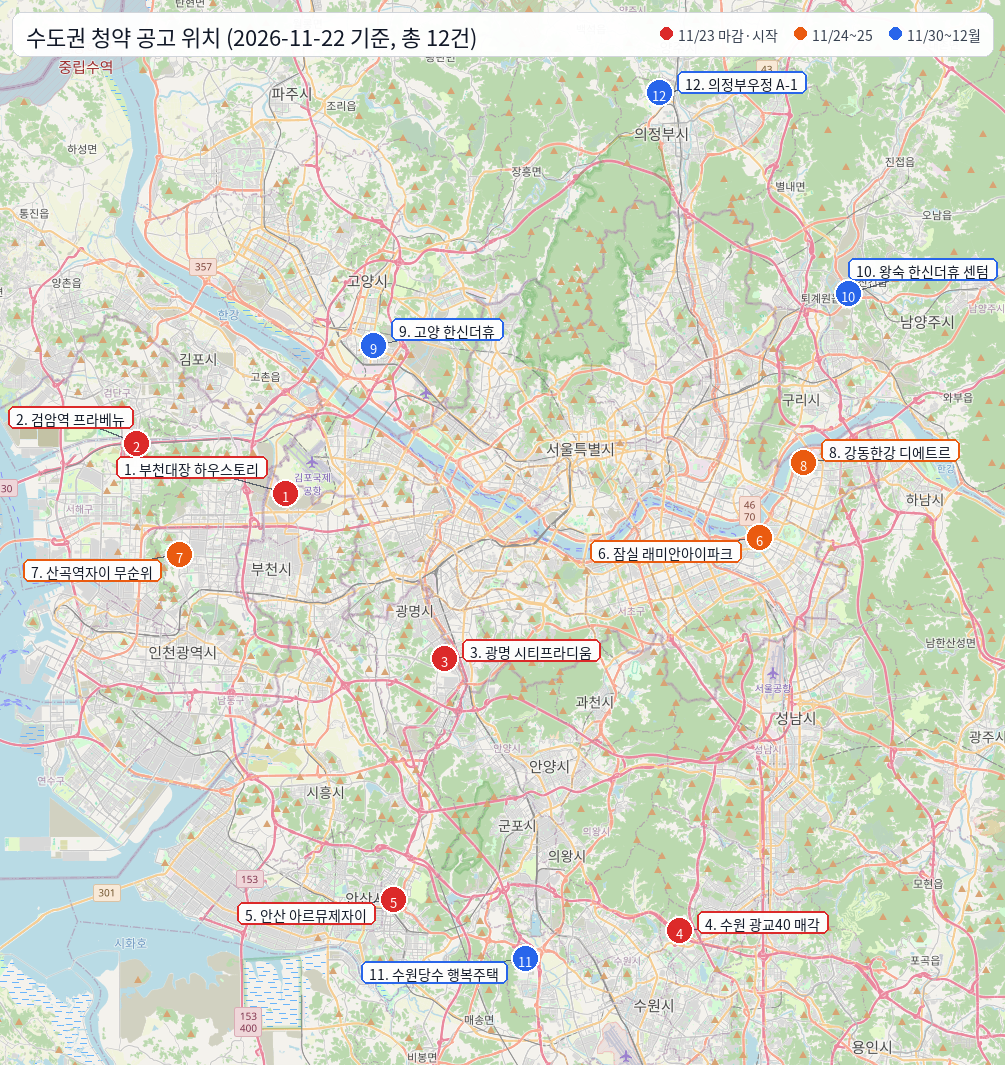
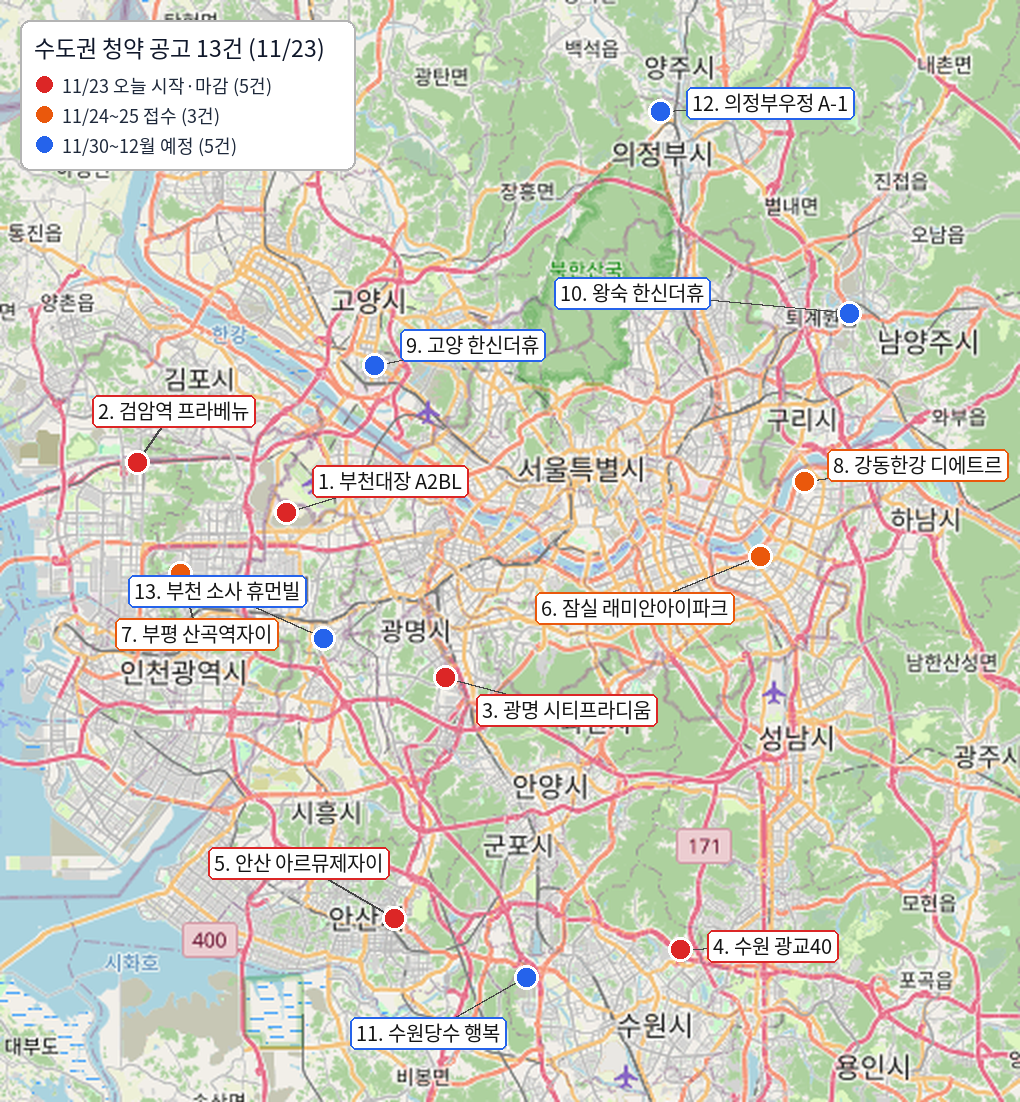
Update subscription map for 2026-11-23 (13 notices, add Sosa Humanville)

diff --git a/index.html b/index.html
@@ -3,7 +3,7 @@
 <head>
 <meta charset="utf-8" />
 <meta name="viewport" content="width=device-width, initial-scale=1.0" />
-<title>수도권 청약 공고 지도 (2026-11-22 기준)</title>
+<title>수도권 청약 공고 지도 (2026-11-23 기준)</title>
 <link rel="stylesheet" href="https://unpkg.com/leaflet@1.9.4/dist/leaflet.css" />
 <style>
   html, body, #map { margin: 0; padding: 0; width: 100%; height: 100%; font-family: -apple-system, BlinkMacSystemFont, "Noto Sans KR", sans-serif; }
@@ -34,7 +34,8 @@ const items = [
   {id: 9, name: "고양 한신더휴 퍼스트원", type: "민영 · 경기 고양", sched: "특공 11.30 / 1순위 12.01 / 2순위 12.02", price: "59~84㎡ 5.99~8.46억", lat: 37.62236, lng: 126.83604, color: "#2563eb", url: "https://www.applyhome.co.kr/ai/aia/selectAPTLttotPblancDetail.do?houseManageNo=2026000585&pblancNo=2026000585"},
   {id: 10, name: "왕숙 한신더휴 센텀 (A-17BL)", type: "공공분양 · 경기 남양주", sched: "특공 11.30 / 1순위 12.01 / 2순위 12.02", price: "59㎡ 5.99~6.07억", lat: 37.65065, lng: 127.16240, color: "#2563eb", url: "https://bizwave.kr/notice/applyhome_apt-2026000575"},
   {id: 11, name: "수원당수 1·2단지 행복주택", type: "LH 행복주택 · 경기 수원", sched: "11.30(월)~12.02(수) 16:00", price: "보증금 2,312~4,464만 / 월 10.2~19.7만", lat: 37.28872, lng: 126.94022, color: "#2563eb", url: "https://apply.lh.or.kr/"},
-  {id: 12, name: "의정부우정 A-1블록 순번추첨", type: "LH 공공분양 · 경기 의정부", sched: "12.07(월)~12.10(목) 17:00", price: "59㎡ 평균 3.87억", lat: 37.76013, lng: 127.03232, color: "#2563eb", url: "https://apply.lh.or.kr/lhapply/apply/wt/wrtanc/selectWrtancInfo.do?panId=0000061211&ccrCnntSysDsCd=02&uppAisTpCd=05&aisTpCd=05&mi=1027"}
+  {id: 12, name: "의정부우정 A-1블록 순번추첨", type: "LH 공공분양 · 경기 의정부", sched: "12.07(월)~12.10(목) 17:00", price: "59㎡ 평균 3.87억", lat: 37.76013, lng: 127.03232, color: "#2563eb", url: "https://apply.lh.or.kr/lhapply/apply/wt/wrtanc/selectWrtancInfo.do?panId=0000061211&ccrCnntSysDsCd=02&uppAisTpCd=05&aisTpCd=05&mi=1027"},
+  {id: 13, name: "소사 휴먼빌 (소사본동)", type: "민영 · 경기 부천 소사구", sched: "특공 11.30 / 1순위 12.01 / 2순위 12.02", price: "59㎡ 4.94~5.59억 / 84㎡ 6.96~7.88억", lat: 37.47329, lng: 126.80123, color: "#2563eb", url: "https://www.applyhome.co.kr/ai/aia/selectAPTLttotPblancDetail.do?houseManageNo=2026000591&pblancNo=2026000591"}
 ];
 
 items.forEach(it => {
@@ -48,7 +49,7 @@ items.forEach(it => {
 const legend = L.control({position: 'topright'});
 legend.onAdd = () => {
   const div = L.DomUtil.create('div', 'legend');
-  div.innerHTML = '<b>수도권 청약 12건 (11/22 기준)</b><br>' +
+  div.innerHTML = '<b>수도권 청약 13건 (11/23 기준)</b><br>' +
     '<span class="dot" style="background:#dc2626"></span>11/23 시작·마감<br>' +
     '<span class="dot" style="background:#ea580c"></span>11/24~25 접수<br>' +
     '<span class="dot" style="background:#2563eb"></span>11/30~12월 예정';
